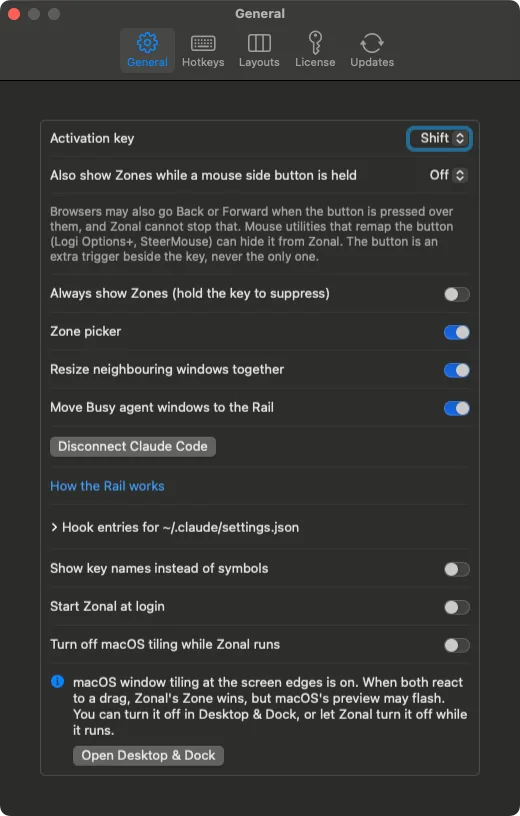
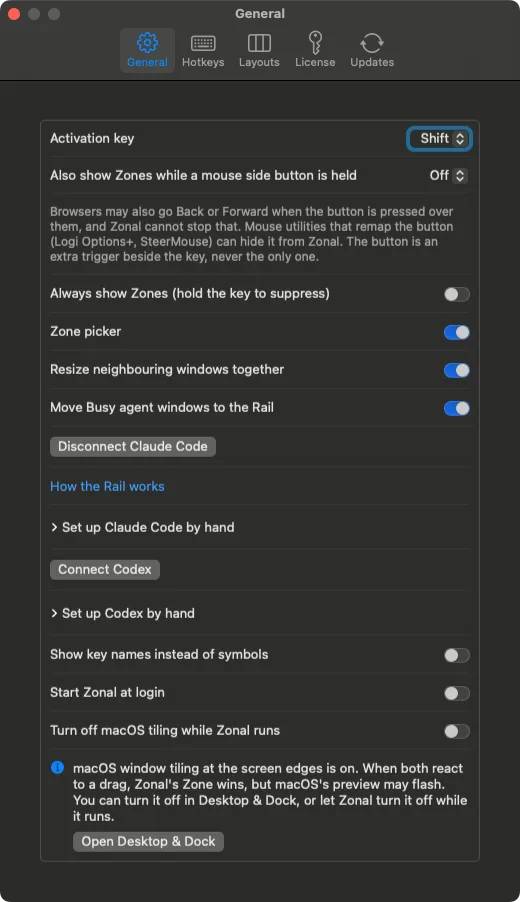
Site: Connect Codex (guide, FAQ, home, Settings screenshots)
From window_manager 0e773ef (PR #135). Pre-launch form.

diff --git a/guide.html b/guide.html
@@ -343,7 +343,7 @@
     <h2 id="rail">Agent sessions and the Rail</h2>
     <aside class="why">
       <p class="why-title">Why use it</p>
-      <p>When you run several coding agents at once, such as Claude Code, most of them are working at any moment and only one or two need you. Yet each terminal takes the same space, and you keep scanning them to find the one that is waiting. The Rail does the sorting for you: windows that are working shrink to the side, where you can still watch them scroll, and the window that needs you comes back to full size in its place. The space goes to the work that needs your attention.</p>
+      <p>When you run several coding agents at once, such as Claude Code or Codex, most of them are working at any moment and only one or two need you. Yet each terminal takes the same space, and you keep scanning them to find the one that is waiting. The Rail does the sorting for you: windows that are working shrink to the side, where you can still watch them scroll, and the window that needs you comes back to full size in its place. The space goes to the work that needs your attention.</p>
     </aside>
     <p>A session is <em>Busy</em> while the agent works and needs nothing from you. It is <em>Waiting</em> when the agent has stopped and needs you: it finished, asks permission, or asks a question.</p>
     <p>After a session has been Busy for 20 seconds, its window moves into the Layout’s <em>Rail</em>: a Zone set aside for windows that need no attention, where the window stays readable at a smaller size. The window next to the Zone it left grows into the space. When the session is Waiting, the window goes back to its Zone and the neighbour shrinks back. Nothing overlaps, and the window that comes back does not take focus, so it never interrupts what you are typing.</p>
@@ -408,7 +408,7 @@
     <h3 id="rail-setup">Set it up</h3>
     <ol class="steps">
       <li><strong>Add a Rail to a Layout.</strong> In the <a href="#editor">full-screen editor</a>, right-click a Zone, often a narrow one at the side, and choose <strong>Make Rail</strong>. The Rail is drawn in orange with a dashed outline and has no number.</li>
-      <li><strong>Connect Claude Code.</strong> In Settings &gt; General, click <strong>Connect Claude Code</strong>. Zonal adds its hooks to <code>~/.claude/settings.json</code>, which applies to every session, and keeps a copy of the previous file next to it as <code>settings.json.zonal-backup</code>. Sessions that are already running pick up the change by themselves.</li>
+      <li><strong>Connect Claude Code or Codex.</strong> In Settings &gt; General, click <strong>Connect Claude Code</strong> or <strong>Connect Codex</strong>, or both. For Claude Code, Zonal adds its hooks to <code>~/.claude/settings.json</code>, which applies to every session, and keeps a copy of the previous file next to it as <code>settings.json.zonal-backup</code>. Sessions that are already running pick up the change by themselves. For Codex, Zonal adds its hooks to <code>~/.codex/hooks.json</code> and keeps a copy as <code>hooks.json.zonal-backup</code>. Codex runs new hooks only after you trust them, so run <code>/hooks</code> in Codex once and trust Zonal’s hooks. Zonal never changes Codex’s trust settings itself.</li>
       <li><strong>Snap each terminal window</strong> to a Zone of that Layout. Zonal only moves Snapped windows, and it learns each session’s Zone from where its window is Snapped.</li>
       <li><strong>Allow Automation.</strong> The first time a session sends a signal, macOS asks whether Zonal may control your terminal app. Zonal uses it only to ask the terminal which window runs the session. Click <strong>Allow</strong>.</li>
     </ol>
@@ -417,10 +417,10 @@
       <figcaption>Right-click a Zone in the editor and choose <strong>Make Rail</strong>.</figcaption>
     </figure>
     <figure class="shot">
-      <picture><source srcset="media/guide/settings-general-dark.webp" media="(prefers-color-scheme: dark)"><img src="media/guide/settings-general.webp" alt="Settings, General tab, with the Move Busy agent windows to the Rail toggle, the Claude Code button and the hook entries." width="520" height="816" loading="lazy" style="max-width: 520px"></picture>
-      <figcaption>Settings &gt; General: the Rail toggle and the Claude Code connection.</figcaption>
+      <picture><source srcset="media/guide/settings-general-dark.webp" media="(prefers-color-scheme: dark)"><img src="media/guide/settings-general.webp" alt="Settings, General tab, with the Move Busy agent windows to the Rail toggle, Disconnect Claude Code, Set up Claude Code by hand, Connect Codex and Set up Codex by hand." width="520" height="902" loading="lazy" style="max-width: 520px"></picture>
+      <figcaption>Settings &gt; General: the Rail toggle and the buttons that connect Claude Code and Codex.</figcaption>
     </figure>
-    <p><strong>Move Busy agent windows to the Rail</strong> in Settings &gt; General is on by default. Turn it off to pause the Rail without disconnecting Claude Code. If you prefer to edit <code>~/.claude/settings.json</code> yourself, open <strong>Hook entries for ~/.claude/settings.json</strong> under the button and click <strong>Copy</strong>. <strong>Disconnect Claude Code</strong> removes Zonal’s hooks and leaves your other hooks alone.</p>
+    <p><strong>Move Busy agent windows to the Rail</strong> in Settings &gt; General is on by default. Turn it off to pause the Rail without disconnecting the agent. If you prefer to edit the files yourself, open <strong>Set up Claude Code by hand</strong> (for <code>~/.claude/settings.json</code>) or <strong>Set up Codex by hand</strong> (for <code>~/.codex/hooks.json</code>) and click <strong>Copy</strong>. <strong>Disconnect Claude Code</strong> and <strong>Disconnect Codex</strong> remove Zonal’s hooks and leave your other hooks alone.</p>
     <p>Supported terminals: Terminal, iTerm2 and Ghostty 1.3 or later. In Ghostty, Zonal finds the window by its folder and title, so two Ghostty windows in the same folder with the same title are left alone. Terminals inside an editor, such as VS Code or Cursor, cannot be moved, since one window holds many terminals.</p>
     <p>In the overlay, the Rail is drawn the same way and is never a drop target, the Zone shortcuts skip it, and the Zone picker does not offer it: only Busy sessions go there.</p>
     <figure class="shot">
@@ -432,13 +432,13 @@
     <ul>
       <li><strong>Several Busy sessions</strong> share the Rail in equal slices, the oldest on top. A slice is never shorter than 160 points; a window that does not fit stays in its Zone until a slice frees up.</li>
       <li><strong>The neighbour that grows</strong> is a Snapped window whose Zones and the emptied Zone together form a rectangle. If several qualify, the one you used most recently grows. If none does, the Zone stays empty. If the window that grew is an agent session that stays Busy too, it moves to the Rail like the other, and its own Zone becomes the emptied one.</li>
-      <li><strong>Click a window in the Rail</strong> to bring it back to its Zone at once. Use this when you want to read a session closely, or when a session stops without telling Zonal, for example when you interrupt Claude Code with <kbd>esc</kbd>.</li>
+      <li><strong>Click a window in the Rail</strong> to bring it back to its Zone at once. Use this when you want to read a session closely, or when a session stops without telling Zonal, for example when you interrupt Claude Code with <kbd>esc</kbd>, which sends no signal (Codex does send one), or when a Codex turn ends in an error.</li>
       <li><strong>Drag or resize a window in the Rail</strong> to take it back yourself. Zonal leaves it where you put it, and the neighbour returns to its own Zone. Snap the window again to hand it back to Zonal.</li>
       <li><strong>Zonal waits for you.</strong> A window you are dragging, or that the pointer is over, moves once you let go or move away.</li>
       <li><strong>If the Zone is taken.</strong> When a session is Waiting but another Snapped window now fills its Zone, the window stays in the Rail until the Zone is free. Click it to bring it back anyway.</li>
-      <li><strong>Resumed sessions.</strong> When you resume a session in a new terminal window, for example with <code>claude --resume</code>, Zonal Snaps the window to the session’s Zone, if that Zone is free on the same display and Layout. A brand-new session is never moved until you Snap it once. Zonal forgets a session after 30 days without a signal.</li>
+      <li><strong>Resumed sessions.</strong> When you resume a session in a new terminal window, for example with <code>claude --resume</code> or <code>codex resume</code>, Zonal Snaps the window to the session’s Zone, if that Zone is free on the same display and Layout. A brand-new session is never moved until you Snap it once. Zonal forgets a session after 30 days without a signal.</li>
     </ul>
-    <p>Every window in the Rail goes back to its Zone when you turn the toggle off, disconnect Claude Code, switch or edit the display’s Layout, connect or disconnect a display, or choose <strong>Quit</strong> from the menu-bar menu. If Zonal restarts for an update or after a crash, the windows stay in the Rail, and the next signal or a click brings them back.</p>
+    <p>Every window in the Rail goes back to its Zone when you turn the toggle off, disconnect Claude Code or Codex, switch or edit the display’s Layout, connect or disconnect a display, or choose <strong>Quit</strong> from the menu-bar menu. If Zonal restarts for an update or after a crash, the windows stay in the Rail, and the next signal or a click brings them back.</p>
     <aside class="note">
       <p class="note-title">Make the Rail work for you</p>
       <p>Put the Rail on the side of the display you look at least, and make it 15 to 20% wide: narrow enough to give the space back, wide enough to read the last lines of output. Two to four sessions per Rail keep each slice readable. On a second display, a whole column can be the Rail for sessions you only want to keep an eye on.</p>
@@ -447,7 +447,7 @@
     <h3 id="rail-not-moving">When a window does not move</h3>
     <p>Zonal leaves a session’s window alone unless all of these hold:</p>
     <ul>
-      <li>Claude Code is connected, and <strong>Move Busy agent windows to the Rail</strong> is on.</li>
+      <li>Claude Code or Codex is connected (and, for Codex, you trusted Zonal’s hooks with <code>/hooks</code>), and <strong>Move Busy agent windows to the Rail</strong> is on.</li>
       <li>The window is Snapped, and its display’s current Layout has a Rail.</li>
       <li>The terminal is supported, and Zonal may control it in System Settings &gt; Privacy &amp; Security &gt; Automation. When it may not, Settings &gt; General says so under the toggle.</li>
       <li>The session has been Busy for 20 seconds without a pause.</li>

diff --git a/faq.html b/faq.html
@@ -130,21 +130,21 @@
         <summary>What is the Rail, and do I need it?</summary>
         <div class="answer">
           <!-- spec 3.18 -->
-          <p>The Rail is for people who run coding agents such as Claude Code in several terminal windows. It is a Zone where the windows of sessions that are working wait at a smaller size; a session that needs you comes back to its Zone by itself. If you don't run agents, you can ignore it: nothing happens until you mark a Zone as the Rail and connect Claude Code. See <a href="guide.html#rail">Agent sessions and the Rail</a>.</p>
+          <p>The Rail is for people who run coding agents such as Claude Code or Codex in several terminal windows. It is a Zone where the windows of sessions that are working wait at a smaller size; a session that needs you comes back to its Zone by itself. If you don't run agents, you can ignore it: nothing happens until you mark a Zone as the Rail and connect Claude Code or Codex. See <a href="guide.html#rail">Agent sessions and the Rail</a>.</p>
         </div>
       </details>
       <details id="rail-privacy">
         <summary>Does the Rail read my terminal or my Claude Code conversations?</summary>
         <div class="answer">
           <!-- ADR 0003, spec 3.18 rules 3, 4, 10; privacy.html -->
-          <p>No. Claude Code's hooks tell Zonal only that a session is busy or waiting, with the session's ID, terminal and working folder, so Zonal can find its window. Zonal never reads what your terminal shows, what you type or what the agent writes, and nothing leaves your Mac. Details are in the <a href="privacy.html#stored">privacy policy</a>.</p>
+          <p>No. The hooks of Claude Code and Codex tell Zonal only that a session is busy or waiting, with the session's ID, terminal and working folder, so Zonal can find its window. Zonal never reads what your terminal shows, what you type or what the agent writes, and nothing leaves your Mac. Details are in the <a href="privacy.html#stored">privacy policy</a>.</p>
         </div>
       </details>
       <details id="rail-other-agents">
-        <summary>Does the Rail work with agents other than Claude Code?</summary>
+        <summary>Does the Rail work with agents other than Claude Code and Codex?</summary>
         <div class="answer">
           <!-- ADR 0003 -->
-          <p>Yes, if they can run a command when they start and stop working. Zonal listens for <code>zonal://busy</code> and <code>zonal://waiting</code> URLs, which any tool or script can open. The guide shows <a href="guide.html#rail-url">the URL format and an example</a>.</p>
+          <p>Claude Code and Codex are built in: connect them in Settings &gt; General. Others work too, if they can run a command when they start and stop working. Zonal listens for <code>zonal://busy</code> and <code>zonal://waiting</code> URLs, which any tool or script can open. The guide shows <a href="guide.html#rail-url">the URL format and an example</a>.</p>
         </div>
       </details>
       <details id="other-window-managers">
@@ -228,8 +228,8 @@
         <summary>My agent's window does not move to the Rail.</summary>
         <div class="answer">
           <!-- spec 3.18 rules 2, 4, 5, 8, 13; RL-9, RL-18 -->
-          <p>Zonal moves a session's window only when Claude Code is connected and <strong>Move Busy agent windows to the Rail</strong> is on in Settings &gt; General, the window is Snapped, its display's Layout has a Rail, and the session has been Busy for 20 seconds. The terminal must be Terminal, iTerm2 or Ghostty 1.3 or later, and Zonal must be allowed to control it in System Settings &gt; Privacy &amp; Security &gt; Automation; Settings &gt; General says so when it is not.</p>
-          <p>If a window stays in the Rail after you interrupt Claude Code with <kbd>esc</kbd>, click it: Claude Code sends no signal on an interrupt. See <a href="guide.html#rail">Agent sessions and the Rail</a>.</p>
+          <p>Zonal moves a session's window only when Claude Code or Codex is connected (for Codex, you also trusted Zonal's hooks with <code>/hooks</code>) and <strong>Move Busy agent windows to the Rail</strong> is on in Settings &gt; General, the window is Snapped, its display's Layout has a Rail, and the session has been Busy for 20 seconds. The terminal must be Terminal, iTerm2 or Ghostty 1.3 or later, and Zonal must be allowed to control it in System Settings &gt; Privacy &amp; Security &gt; Automation; Settings &gt; General says so when it is not.</p>
+          <p>If a window stays in the Rail after you interrupt Claude Code with <kbd>esc</kbd>, or after a Codex turn ends in an error, click it: Claude Code sends no signal on an interrupt, and Codex sends none for an error. See <a href="guide.html#rail">Agent sessions and the Rail</a>.</p>
         </div>
       </details>
     </div>
@@ -251,7 +251,7 @@
           <p>If you're moving your License to another Mac, open Settings &gt; License and choose <strong>Deactivate this Mac</strong> first. That frees one of your three Activations.</p>
           <ol>
             <li>In System Settings &gt; General &gt; Login Items, turn Zonal off, or untick <strong>Start Zonal at login</strong> in Zonal's Settings &gt; General.</li>
-            <li>If you connected Claude Code, click <strong>Disconnect Claude Code</strong> in Zonal's Settings &gt; General, so your sessions stop calling Zonal's hook.</li>
+            <li>If you connected Claude Code or Codex, click <strong>Disconnect Claude Code</strong> or <strong>Disconnect Codex</strong> in Zonal's Settings &gt; General, so your sessions stop calling Zonal's hook.</li>
             <li>Choose <strong>Quit</strong> in the Zonal menu.</li>
             <li>Drag Zonal from the Applications folder to the Trash.</li>
           </ol>

diff --git a/index.html b/index.html
@@ -96,7 +96,7 @@
       <section class="section" aria-labelledby="agents-title">
         <div class="section-head">
           <h2 id="agents-title">Running coding agents? Meet the Rail</h2>
-          <p>Mark one Zone as the Rail. When a Claude Code session has been working for 20 seconds, its terminal slides into the Rail, still readable, and its neighbour takes the space. The moment the session needs you, the window is back in its Zone, without stealing focus. One click in Settings connects Claude Code. <a href="guide.html#rail">How the Rail works</a></p>
+          <p>Mark one Zone as the Rail. When a Claude Code or Codex session has been working for 20 seconds, its terminal slides into the Rail, still readable, and its neighbour takes the space. The moment the session needs you, the window is back in its Zone, without stealing focus. One click in Settings connects Claude Code or Codex. <a href="guide.html#rail">How the Rail works</a></p>
         </div>
       </section>
 
